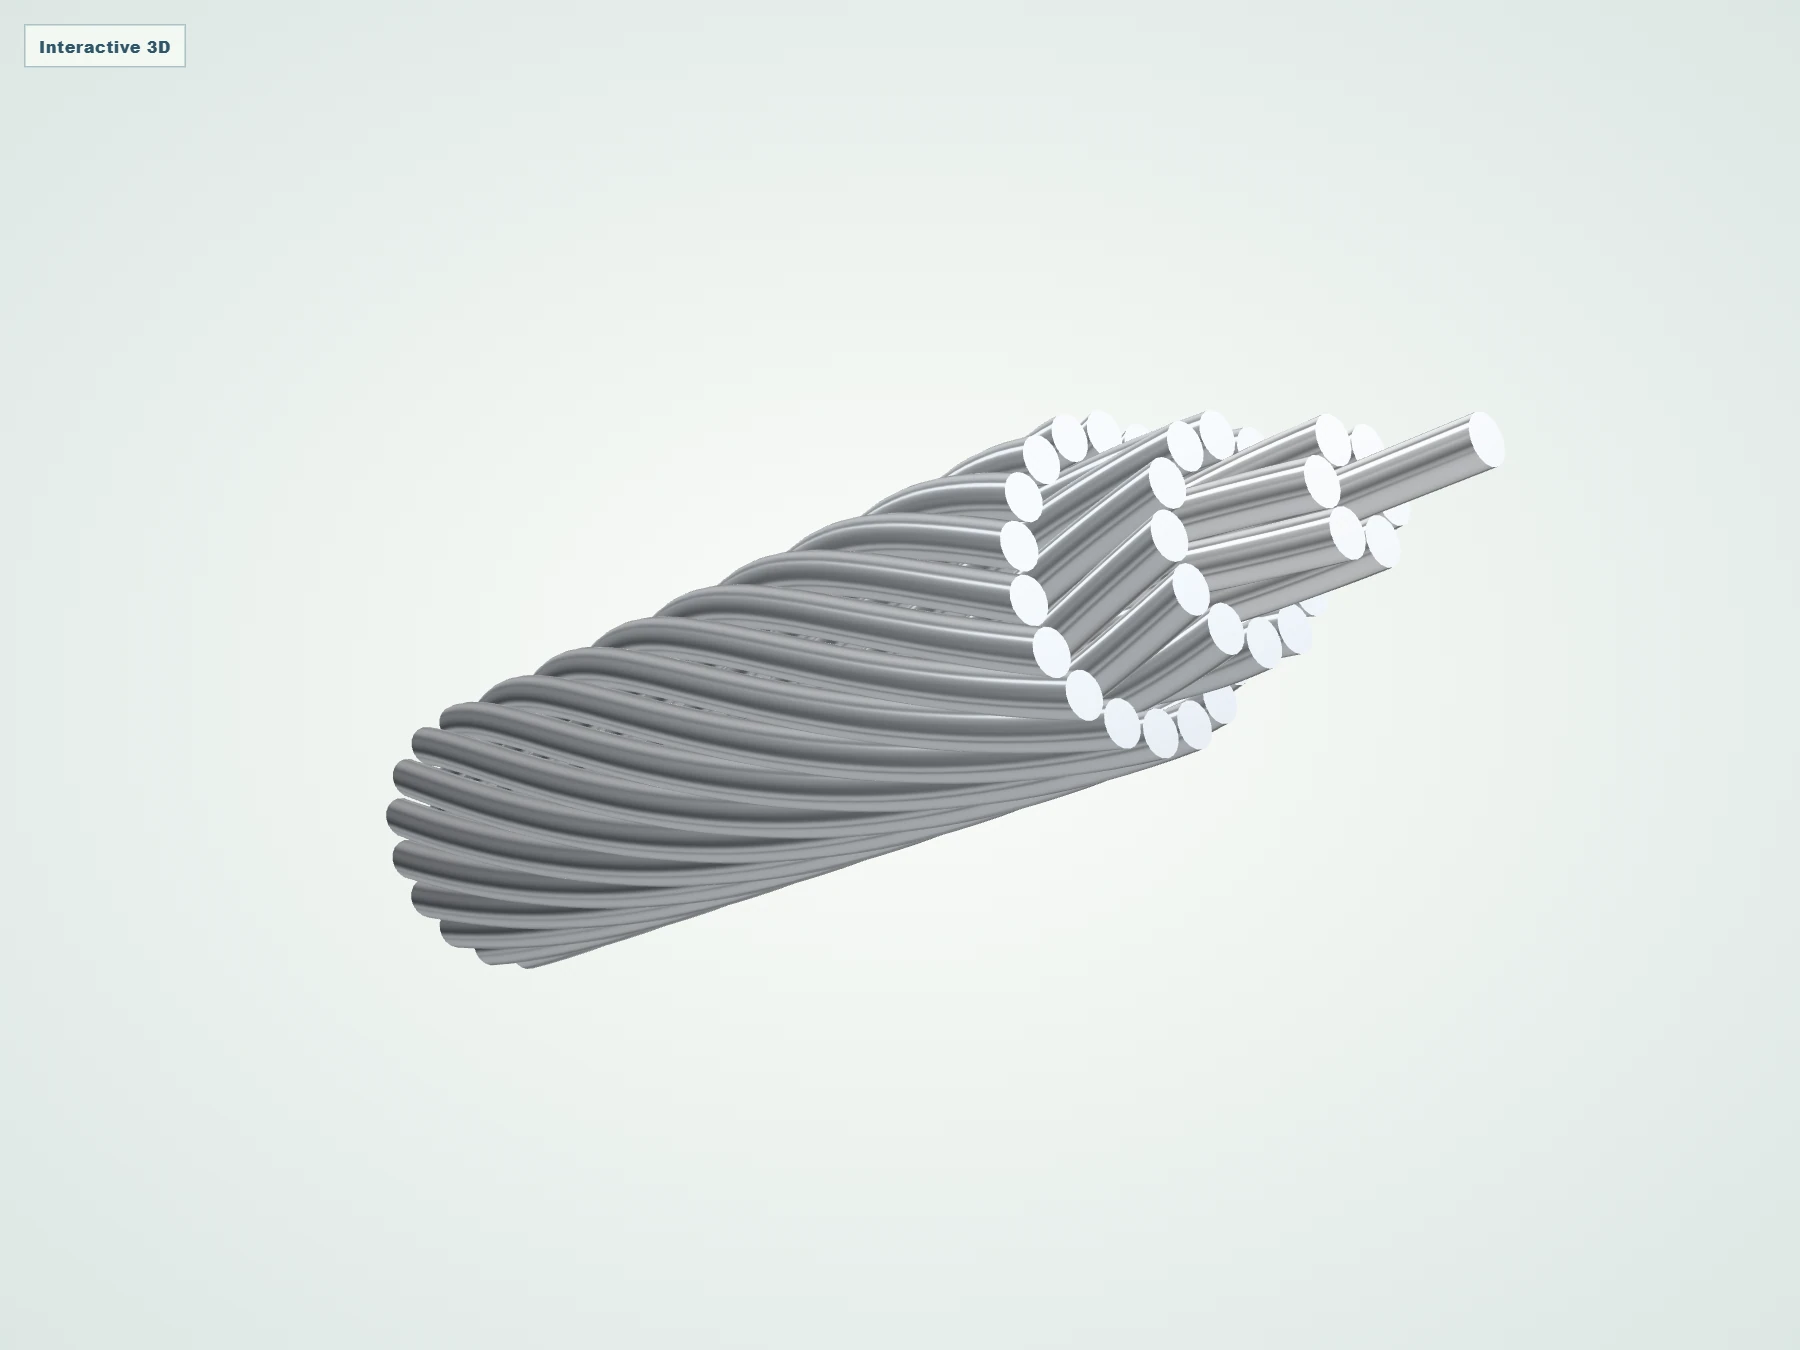
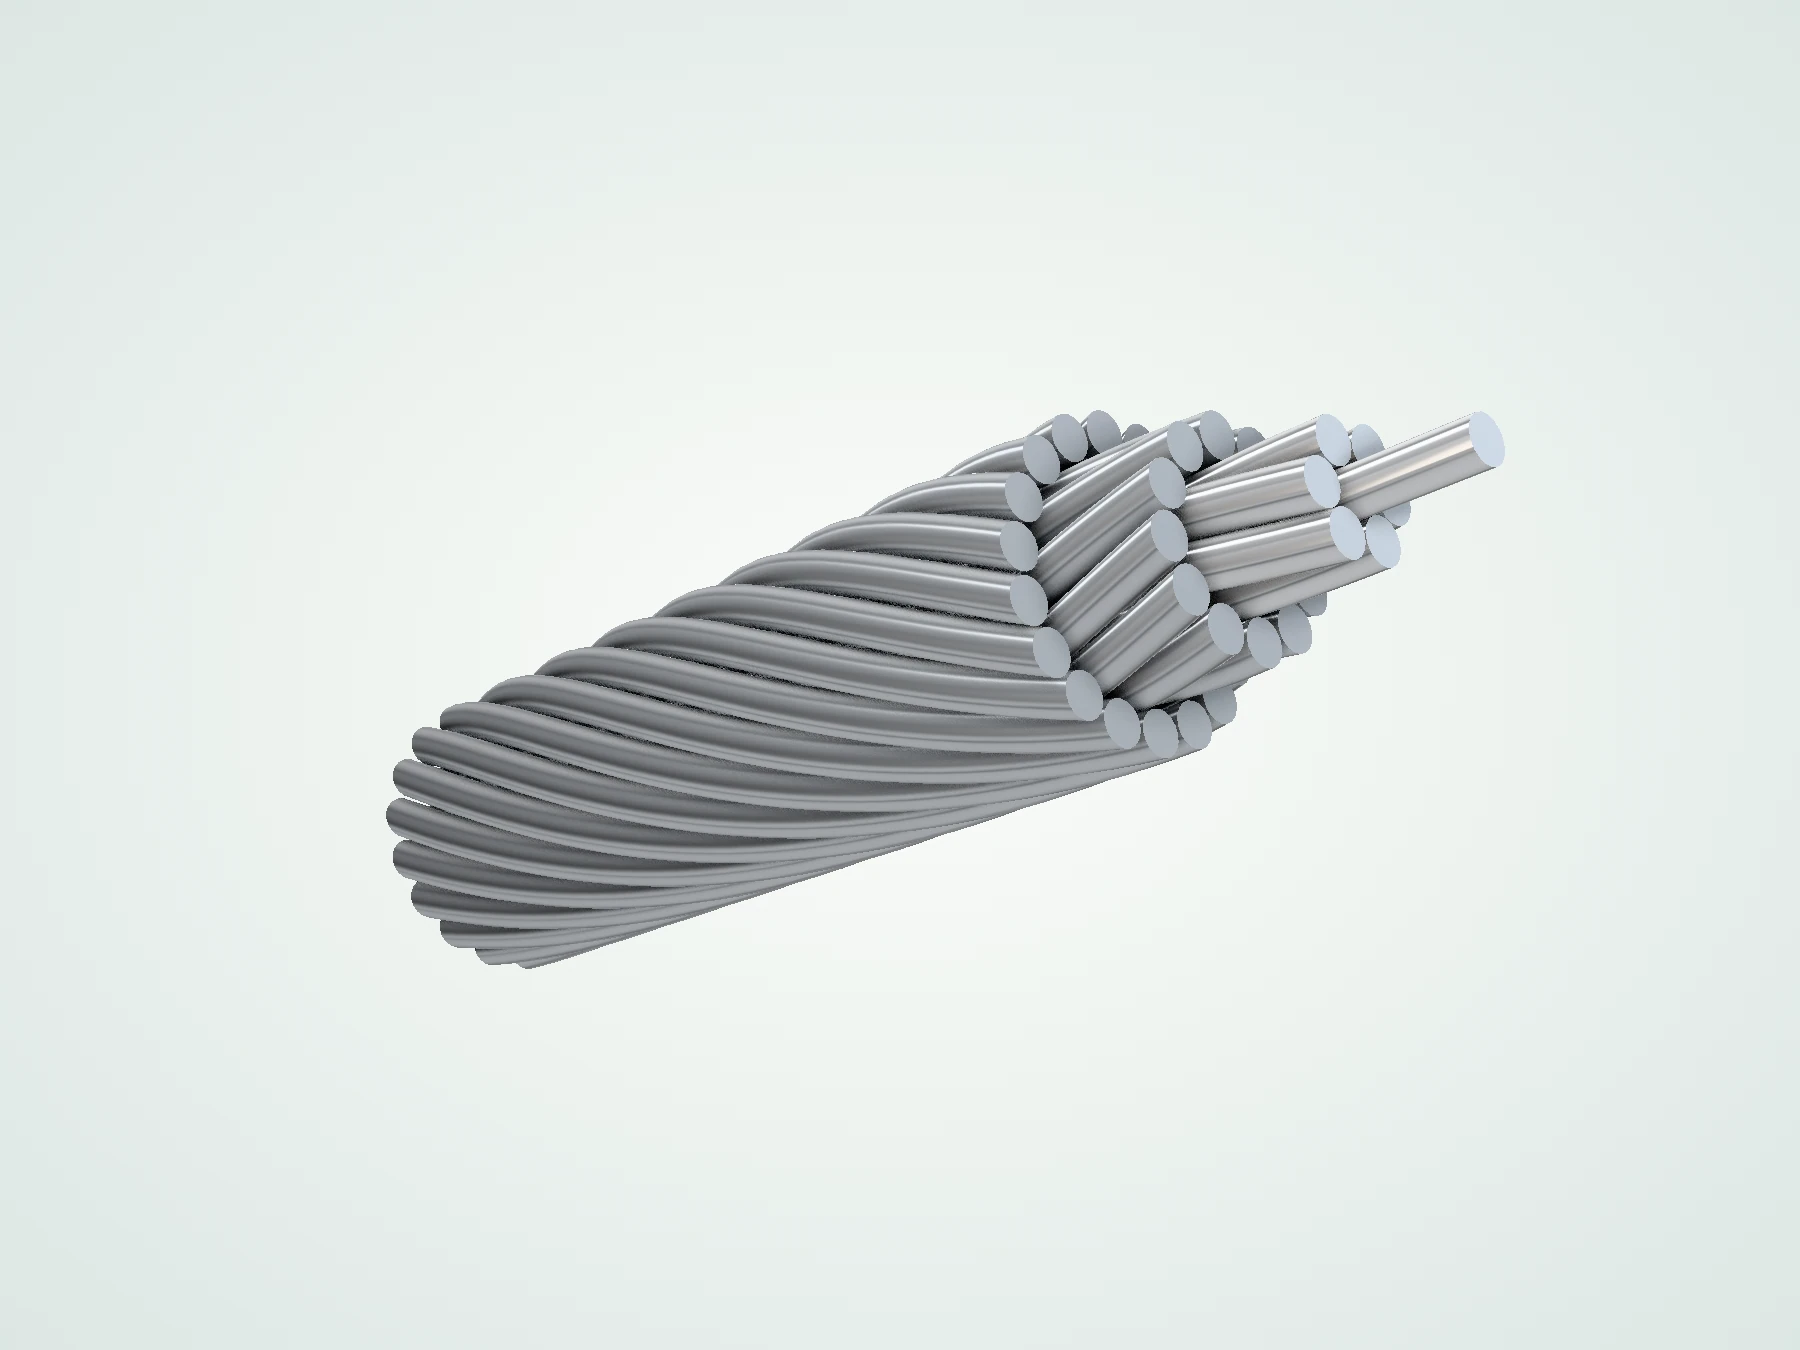
Improve product rendering and repair imported page copy
Add shared studio lighting, distinct wire cut-face materials and ambient
occlusion for poster captures. Refresh conductor thumbnails and product
posters, and refine the product viewer styling.

Add complete page titles and summaries, integrate them with database
seeding, and provide a script for repairing unfinished imported CMS copy.

Changed region(s): [[0.2178, 0.28, 0.84, 0.6533], [0.0311, 0.0311, 0.0933, 0.0622]]

diff --git a/lib/conductor-models.ts b/lib/conductor-models.ts
@@ -27,7 +27,36 @@ export function conductorMaterials() {
     alloy:new T.MeshPhysicalMaterial({color:0xe6e9ec, metalness:1, roughness:.11, clearcoat:.3, clearcoatRoughness:.2}),
     // Galvanised steel: darker, warmer zinc grey with a duller sheen.
     steel:new T.MeshPhysicalMaterial({color:0x5f656b, metalness:.88, roughness:.42}),
+    // Sawn wire ends: the same metals, a little darker and rougher than the drawn wire surface.
+    aluminiumCut:new T.MeshPhysicalMaterial({color:0x76797a, metalness:.55, roughness:.7, envMapIntensity:.22}),
+    alloyCut:new T.MeshPhysicalMaterial({color:0x828586, metalness:.55, roughness:.66, envMapIntensity:.26}),
+    steelCut:new T.MeshPhysicalMaterial({color:0x3f4549, metalness:.7, roughness:.66, envMapIntensity:.5}),
   }
+}
+
+/** Copies the given vertex ranges of a non-indexed geometry into a new geometry. */
+function slice(source: T.BufferGeometry, ranges: [number, number][]) {
+  const out = new T.BufferGeometry()
+  const total = ranges.reduce((sum, [, count]) => sum + count, 0)
+  for (const name of ['position', 'normal', 'uv']) {
+    const attribute = source.attributes[name] as T.BufferAttribute | undefined
+    if (!attribute) continue
+    const size = attribute.itemSize, array = new Float32Array(total * size)
+    let offset = 0
+    for (const [start, count] of ranges) { array.set((attribute.array as Float32Array).subarray(start * size, (start + count) * size), offset); offset += count * size }
+    out.setAttribute(name, new T.BufferAttribute(array, size))
+  }
+  return out
+}
+/** Splits a wire into its drawn surface and its sawn end faces, using the face groups three.js assigns. */
+function splitEnds(geometry: T.BufferGeometry, endGroups: Set<number>) {
+  const flat = geometry.index ? geometry.toNonIndexed() : geometry
+  const sides: [number, number][] = [], ends: [number, number][] = []
+  for (const group of flat.groups) (endGroups.has(group.materialIndex ?? 0) ? ends : sides).push([group.start, group.count])
+  if (!flat.groups.length) sides.push([0, flat.attributes.position.count])
+  const result = {sides:slice(flat, sides), ends:slice(flat, ends)}
+  if (flat !== geometry) flat.dispose()
+  return result
 }
 
 /** Twists a straight (along +z) geometry into a helix about the z axis: `turnsPerUnit` full turns per unit length. */
@@ -61,7 +90,7 @@ export function buildConductor(kind: ConductorKind, materials = conductorMateria
     const len = length + end
     const direction = index % 2 ? 1 : -1                // alternate lay directions, like the real thing
     const turns = index === 0 ? 0 : direction / lay
-    const parts: T.BufferGeometry[] = []
+    const parts: T.BufferGeometry[] = [], ends: T.BufferGeometry[] = []
     for (let k = 0; k < layer.count; k++) {
       const angle = k / layer.count * Math.PI * 2
       let g: T.BufferGeometry
@@ -82,12 +111,18 @@ export function buildConductor(kind: ConductorKind, materials = conductorMateria
         g.translate(0, 0, end - len)
       }
       if (turns) twist(g, turns)
-      parts.push(g)
+      // Cylinder caps are groups 1 and 2; extruded (trapezoidal) lids are group 0.
+      const split = splitEnds(g, layer.shape === 'round' || index === 0 ? new Set([1, 2]) : new Set([0]))
+      g.dispose()
+      parts.push(split.sides); ends.push(split.ends)
     }
-    const merged = mergeGeometries(parts.map(g => g.index ? g.toNonIndexed() : g))
-    parts.forEach(g => g.dispose())
-    geometries.push(merged)
-    group.add(new T.Mesh(merged, materials[layer.metal]))
+    const merged = mergeGeometries(parts), mergedEnds = mergeGeometries(ends)
+    parts.forEach(g => g.dispose()); ends.forEach(g => g.dispose())
+    geometries.push(merged, mergedEnds)
+    // One group per layer, so callers that move layers (the product viewer's separation) keep each wire whole.
+    const layerGroup = new T.Group()
+    layerGroup.add(new T.Mesh(merged, materials[layer.metal]), new T.Mesh(mergedEnds, materials[`${layer.metal}Cut` as const]))
+    group.add(layerGroup)
     inner = outer
   })
   return {group, radius:inner, dispose:() => geometries.forEach(g => g.dispose())}

diff --git a/components/conductor-render-stage.tsx b/components/conductor-render-stage.tsx
@@ -15,7 +15,11 @@ export function ConductorRenderStage() {
     let disposed = false, cleanup = () => {}
     ;(async () => {
       const T = await import('three')
-      const { RoomEnvironment } = await import('three/addons/environments/RoomEnvironment.js')
+      const { createStudioEnvironment } = await import('@/lib/studio')
+      const { EffectComposer } = await import('three/addons/postprocessing/EffectComposer.js')
+      const { RenderPass } = await import('three/addons/postprocessing/RenderPass.js')
+      const { GTAOPass } = await import('three/addons/postprocessing/GTAOPass.js')
+      const { OutputPass } = await import('three/addons/postprocessing/OutputPass.js')
       const { buildConductor, conductorMaterials } = await import('@/lib/conductor-models')
       if (disposed || !canvas.current) return
       const el = canvas.current, width = innerWidth, height = innerHeight
@@ -24,9 +28,8 @@ export function ConductorRenderStage() {
       renderer.setClearColor(0x000000, 0)
       renderer.toneMapping = T.NeutralToneMapping; renderer.toneMappingExposure = 1.2
       const scene = new T.Scene()
-      // Bright, even room for reflections; the direct lights below carve the highlights along each strand.
-      const pmrem = new T.PMREMGenerator(renderer), room = new RoomEnvironment()
-      const env = pmrem.fromScene(room, .015); room.dispose()
+      // Studio reflections (bright room plus strip softboxes); the direct lights below carve each strand.
+      const env = createStudioEnvironment(renderer)
       scene.environment = env.texture
       scene.environmentIntensity = .75
       // Soft studio: warm key from the upper left, cool rim from behind, low fill.
@@ -37,6 +40,15 @@ export function ConductorRenderStage() {
       const camera = new T.PerspectiveCamera(22, width / height, .1, 100)
       camera.position.set(0, .8, 10.6)
       camera.lookAt(0, 0, 0)
+      // Ambient occlusion adds the soft contact shadow where wires touch and where each layer steps back.
+      const composer = new EffectComposer(renderer)
+      composer.setPixelRatio(1); composer.setSize(width, height)
+      composer.addPass(new RenderPass(scene, camera))
+      const ao = new GTAOPass(scene, camera, width, height)
+      ao.updateGtaoMaterial({radius:.55, distanceExponent:1.4, thickness:2, scale:1.4, samples:32})
+      ao.blendIntensity = 1
+      composer.addPass(ao)
+      composer.addPass(new OutputPass())
       const materials = conductorMaterials()
       let current: {group:import('three').Group, dispose:() => void} | null = null
       function render(kind: ConductorKind) {
@@ -49,14 +61,14 @@ export function ConductorRenderStage() {
         holder.rotation.set(-.42, .72, .52)
         scene.add(holder)
         current = {group:holder, dispose:built.dispose}
-        renderer.render(scene, camera)
+        composer.render()
         return el.toDataURL('image/png')
       }
       window.__pciRenderConductor = render
       const kind = (new URLSearchParams(location.search).get('kind') || 'acsr') as ConductorKind
       render(kind)
       el.dataset.ready = 'yes'
-      cleanup = () => { current?.dispose(); Object.values(materials).forEach(m => m.dispose()); env.dispose(); pmrem.dispose(); renderer.dispose(); delete window.__pciRenderConductor }
+      cleanup = () => { current?.dispose(); Object.values(materials).forEach(m => m.dispose()); env.dispose(); ao.dispose(); composer.dispose(); renderer.dispose(); delete window.__pciRenderConductor }
     })()
     return () => { disposed = true; cleanup() }
   }, [])

diff --git a/lib/product-viewer.ts b/lib/product-viewer.ts
@@ -1,5 +1,9 @@
 import * as T from 'three'
-import { RoomEnvironment } from 'three/addons/environments/RoomEnvironment.js'
+import { EffectComposer } from 'three/addons/postprocessing/EffectComposer.js'
+import { RenderPass } from 'three/addons/postprocessing/RenderPass.js'
+import { GTAOPass } from 'three/addons/postprocessing/GTAOPass.js'
+import { OutputPass } from 'three/addons/postprocessing/OutputPass.js'
+import { createStudioEnvironment } from './studio'
 import { buildConductor, conductorMaterials, constructions, type ConductorKind } from './conductor-models'
 import { createCableKit } from './cable-models'
 
@@ -190,12 +194,13 @@ export function createProductViewer(canvas: HTMLCanvasElement, slug: string, onR
   renderer.toneMappingExposure = 1.1
   const scene = new T.Scene()
   const camera = new T.PerspectiveCamera(30, 1, .1, 100)
-  const pmrem = new T.PMREMGenerator(renderer)
-  const room = new RoomEnvironment()
-  const environment = pmrem.fromScene(room, .04)
-  room.dispose()
+  const environment = createStudioEnvironment(renderer)
   scene.environment = environment.texture
   scene.environmentIntensity = .85
+  // Poster capture (scripts/render-product-posters.mjs opens the page with ?poster=1) adds ambient occlusion
+  // between strands and layers. The live viewer skips it to stay light.
+  const poster = new URLSearchParams(location.search).has('poster')
+  let composer: EffectComposer | null = null, ao: GTAOPass | null = null
   const key = new T.DirectionalLight(0xfff5e8, 3.2); key.position.set(-4, 7, 8)
   const rim = new T.DirectionalLight(0xc9e1ff, 3); rim.position.set(6, 3, -4)
   scene.add(key, rim, new T.HemisphereLight(0xe5efff, 0x798a86, 1.3))
@@ -225,7 +230,20 @@ export function createProductViewer(canvas: HTMLCanvasElement, slug: string, onR
       camera.lookAt(0, 0, 0)
     }
     camera.updateProjectionMatrix()
-    renderer.render(scene, camera)
+    if (poster) {
+      if (!composer) {
+        composer = new EffectComposer(renderer)
+        composer.addPass(new RenderPass(scene, camera))
+        ao = new GTAOPass(scene, camera, width, height)
+        ao.updateGtaoMaterial({radius:.6, distanceExponent:1.4, thickness:2, scale:1.4, samples:32})
+        ao.blendIntensity = 1
+        composer.addPass(ao)
+        composer.addPass(new OutputPass())
+      }
+      composer.setPixelRatio(renderer.getPixelRatio())
+      composer.setSize(width, height)
+      composer.render()
+    } else renderer.render(scene, camera)
     canvas.dataset.ready = 'yes'
     onReady(true)
   }
@@ -277,7 +295,8 @@ export function createProductViewer(canvas: HTMLCanvasElement, slug: string, onR
       canvas.removeEventListener('webglcontextrestored', contextRestored)
       document.removeEventListener('visibilitychange', request)
       delete canvas.dataset.ready
-      model.dispose(); environment.dispose(); pmrem.dispose(); renderer.dispose()
+      ao?.dispose(); composer?.dispose()
+      model.dispose(); environment.dispose(); renderer.dispose()
     },
   }
 }

diff --git a/components/product-detail.module.css b/components/product-detail.module.css
@@ -47,7 +47,7 @@
 .sectionHeading h2 { font-size: clamp(2rem, 3.5vw, 3.4rem); }
 .sectionHeading h3 { font-size: clamp(1.5rem, 2.6vw, 2.2rem); }
 .sectionHeading > p { max-width: 45ch; font-size: .92rem; }
-.overviewGrid { display: grid; grid-template-columns: minmax(0, 1.15fr) minmax(0, .85fr); gap: clamp(24px, 4vw, 56px); }
+.overviewGrid { display: grid; grid-template-columns: minmax(0, 1.15fr) minmax(0, .85fr); align-items: start; gap: clamp(24px, 4vw, 56px); }
 .construction { padding: clamp(22px, 3vw, 36px); border: 1px solid #cbd7d5; background: #fffdf8; }
 .construction h3 { font-size: 1.7rem; }
 .construction ol { list-style: none; margin: 28px 0 0; padding: 0; display: grid; gap: 24px; }
@@ -62,7 +62,7 @@
 .standards li { border: 1px solid #c2d1d2; padding: 7px 10px; font-size: .73rem; font-weight: 700; color: #304d5b; }
 .application .overviewNote { margin-top: 25px; padding-top: 20px; border-top: 1px solid #cbd7d5; }
 .strandPanel { margin-top: 30px; padding: clamp(22px, 3vw, 36px); background: #e9eeeb; }
-.strandGrid { display: grid; grid-template-columns: repeat(5, minmax(0, 1fr)); gap: 16px; }
+.strandGrid { display: grid; grid-template-columns: repeat(auto-fit, minmax(110px, 1fr)); gap: 16px; }
 .strandGrid svg { display: block; width: 100%; max-height: 115px; filter: drop-shadow(0 8px 4px #203c4918); }
 .strandGrid figure { margin: 0; text-align: center; }
 .strandGrid figcaption { margin-top: 15px; color: #294756; font-size: .78rem; font-weight: 700; }
@@ -118,14 +118,14 @@
 .enquiry h2 { font-size: clamp(1.8rem, 3vw, 2.8rem); }
 .enquiry > p { max-width: 70ch; margin-block: 20px; }
 .downloads { display: grid; grid-template-columns: repeat(3, minmax(0, 1fr)); gap: 20px; }
-.document, .quoteCard { display: flex; flex-direction: column; align-items: start; padding: clamp(22px, 3vw, 34px); background: #fffdf8; border: 1px solid #c3d1d1; }
+.document, .quoteCard { display: flex; flex-direction: column; align-items: start; padding: clamp(20px, 2.4vw, 28px); background: #fffdf8; border: 1px solid #c3d1d1; }
 .document > span:first-child { color: #6b5b4d; font-size: .7rem; font-weight: 800; letter-spacing: .1em; }
-.document h3, .quoteCard h3 { margin-block: 18px 14px; font-size: 1.6rem; }
+.document h3, .quoteCard h3 { margin-block: 12px 10px; font-size: clamp(1.25rem, 1.8vw, 1.45rem); }
 .document p, .quoteCard p { font-size: .87rem; }
-.documentAction { display: inline-flex; align-items: center; gap: 12px; margin-top: auto; padding-top: 28px; font-size: .8rem; font-weight: 700; color: #24506a; }
+.documentAction { display: inline-flex; align-items: center; gap: 12px; margin-top: auto; padding-top: 18px; font-size: .8rem; font-weight: 700; color: #24506a; }
 .document:hover { border-color: #4f7585; background: #f1f4ee; }
 .quoteCard { background: #e8eeeb; }
-.quoteCard :global(.button) { margin-top: 24px; }
+.quoteCard :global(.button) { margin-top: 18px; }
 .quoteCard :global(.kicker) { margin-bottom: 0; }
 
 @media (max-width: 1050px) {

diff --git a/lib/studio.ts b/lib/studio.ts
@@ -1,0 +1,27 @@
+import * as T from 'three'
+import { RoomEnvironment } from 'three/addons/environments/RoomEnvironment.js'
+
+/**
+ * Product-photography reflections for the cable and conductor models: the bright neutral room three.js provides,
+ * plus two tall strip softboxes and an overhead panel. Drawn metal then shows crisp highlights running along each
+ * strand instead of an even grey. Shared by the live product viewer and the offline renders.
+ */
+export function createStudioEnvironment(renderer: T.WebGLRenderer) {
+  const room = new RoomEnvironment()
+  const panels: T.Mesh[] = []
+  const panel = (w: number, h: number, colour: number, strength: number, position: [number, number, number]) => {
+    const mesh = new T.Mesh(new T.PlaneGeometry(w, h), new T.MeshBasicMaterial({color:new T.Color(colour).multiplyScalar(strength), side:T.DoubleSide}))
+    mesh.position.set(...position)
+    mesh.lookAt(0, 0, 0)
+    room.add(mesh); panels.push(mesh)
+  }
+  panel(.9, 9, 0xfff3e6, 9, [-8.5, 1.5, 3])    // warm strip, front left
+  panel(.9, 9, 0xe3efff, 8, [8.5, 1, -2.5])     // cool strip, back right
+  panel(7, 2.4, 0xffffff, 4, [0, 9, 2])          // overhead softbox
+  const pmrem = new T.PMREMGenerator(renderer)
+  const target = pmrem.fromScene(room, .03)
+  panels.forEach(mesh => { mesh.geometry.dispose(); (mesh.material as T.Material).dispose() })
+  room.dispose()
+  pmrem.dispose()
+  return target
+}
